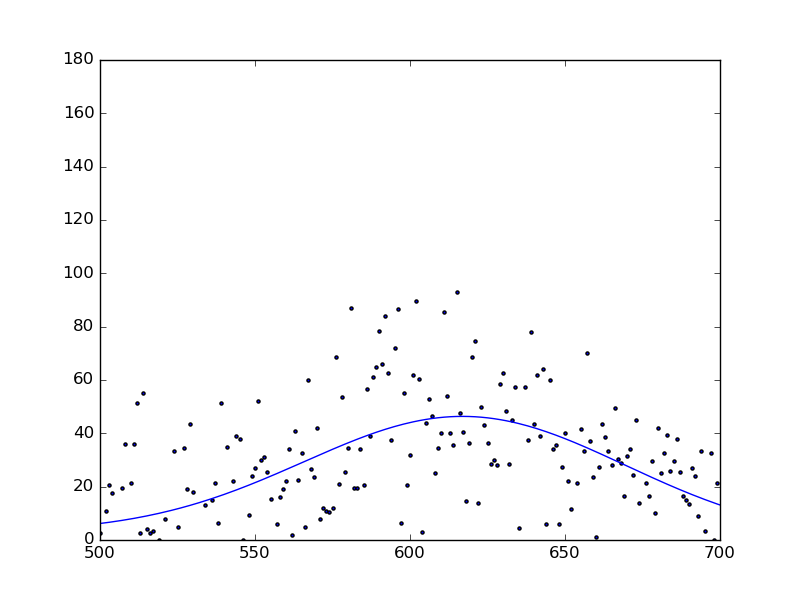
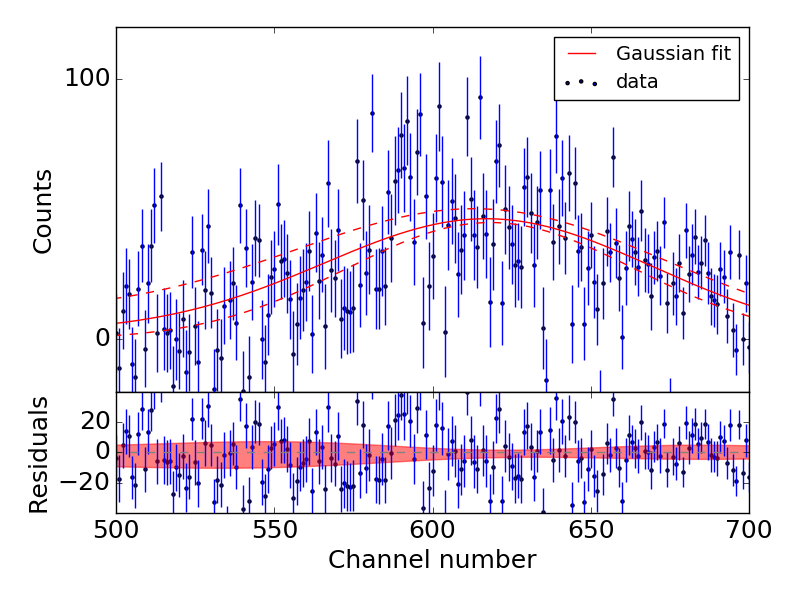
more ploooots

diff --git a/scripts/gaussian_fitter.py b/scripts/gaussian_fitter.py
@@ -49,12 +49,12 @@ def plotter(num, key, guess_mean, guess_width = 2, guess_height=1, plot = True):
 
         # Scatter of the data and gaussian line
         axs[0].scatter(x, y, marker = '.', label = 'data')
-        axs[0].plot(x, total_fit(x, *popt), color = 'orange', label = 'Gaussian fit')
+        axs[0].plot(x, total_fit(x, *popt), color = 'red', label = 'Gaussian fit')
         max = popt+uncertainty
         min = np.clip(popt-uncertainty,1e-15,None)
         max[0], max[2], min[0], min[2] = popt[0], popt[2], popt[0], popt[2]
-        axs[0].plot(x, total_fit(x, *max), color = 'orange',linestyle = '--')
-        axs[0].plot(x, total_fit(x, *min), color = 'orange',linestyle = '--')
+        axs[0].plot(x, total_fit(x, *max), color = 'red',linestyle = '--')
+        axs[0].plot(x, total_fit(x, *min), color = 'red',linestyle = '--')
         axs[0].errorbar(x, y, yerr = uncert, linestyle = "None",capsize=0)
         axs[0].set_ylabel('Counts')
         axs[0].set_yticks([0,100])
@@ -66,7 +66,7 @@ def plotter(num, key, guess_mean, guess_width = 2, guess_height=1, plot = True):
         axs[1].set_ylabel('Residuals') #, position = (0,0))
         plt.xlabel('Channel number')
         axs[1].plot(x,np.zeros(len(x)), color='grey', linestyle = '--')
-        axs[1].fill_between(x, total_fit(x, *popt)-total_fit(x, *max), total_fit(x, *popt)-total_fit(x, *min), color = 'orange', alpha = 0.5)
+        axs[1].fill_between(x, total_fit(x, *popt)-total_fit(x, *max), total_fit(x, *popt)-total_fit(x, *min), color = 'red', alpha = 0.5)
         axs[1].set_yticks([-20,0,20])
         plt.subplots_adjust(wspace=0, hspace=0)
         plt.tight_layout()
@@ -105,7 +105,7 @@ def line_fit(points_y, litterature, angle, plot = True):
         axs[0].scatter(litterature[0], points_y[:,0],marker = '.', label = 'data')
         axs[0].errorbar(litterature[0],points_y[:,0],  yerr = points_y[:,1], linestyle = "None",capsize=0)
         print(points_y[:,1])
-        axs[0].plot(line(points_y[:,0], *popt), points_y[:,0], color = 'orange', label = 'Linear Fit')
+        axs[0].plot(line(points_y[:,0], *popt), points_y[:,0], color = 'red', label = 'Linear Fit')
         axs[0].set_ylabel('Channel Number')
         axs[0].set_yticks([600,1200,1800])
         n = ['Ba-133','Co-57','Cs-137','Na-22']
@@ -119,7 +119,7 @@ def line_fit(points_y, litterature, angle, plot = True):
         axs[1].scatter(litterature[0],points_y[:,0]-reverse_line(litterature[0], *popt),  marker = '.')
         axs[1].errorbar(litterature[0],points_y[:,0]-reverse_line(litterature[0], *popt),  yerr = points_y[:,1], linestyle = "None",capsize=0)
         axs[1].fill_between(linspace, reverse_line(linspace, *popt)-reverse_line(linspace, *max),
-                             reverse_line(linspace, *popt)-reverse_line(linspace, *min), color = 'orange', alpha = 0.5)
+                             reverse_line(linspace, *popt)-reverse_line(linspace, *min), color = 'red', alpha = 0.5)
         axs[1].plot(linspace,np.zeros(len(linspace)), color='grey', linestyle = '--')
         axs[1].set_yticks([-10,0,10])
         axs[1].set_ylabel('Residuals')

diff --git a/scripts/peak_finder.py b/scripts/peak_finder.py
@@ -29,14 +29,44 @@ def peak_finder(sup_path, bins, plot = True):
     unc = np.sqrt(np.diag(res[1]))
     
     if plot: 
-        plt.figure()
-        plt.scatter(x, corr_data, marker = '.', alpha = 1)
-        plt.plot(x, gf.total_fit(x, *popt))
-        plt.ylim(0,180)
-        # plt.ylim(min(data[bins[0]:bins[1]]), max(data[bins[0]:bins[1]]))
+        plt.clf()
+        plt.rcParams.update({'font.size': 18})
+        fig, axs = plt.subplots(2, sharex=True, sharey=False, gridspec_kw = {'height_ratios': [3,1],'wspace':0, 'hspace':0})
+
+        # plt.ylim(0,180)
         plt.xlim(bins[0],bins[1])
-        # plt.show()
+        axs[0].scatter(x, corr_data, marker = '.', label = 'data')
+        axs[0].plot(x, gf.total_fit(x, *popt), color = 'red', label = 'Gaussian fit')
+        max = popt+unc
+        min = np.clip(popt-unc,1e-15,None)
+        max[0], max[2], min[0], min[2] = popt[0], popt[2], popt[0], popt[2]
+        axs[0].plot(x, gf.total_fit(x, *max), color = 'red',linestyle = '--')
+        axs[0].plot(x, gf.total_fit(x, *min), color = 'red',linestyle = '--')
+        axs[0].errorbar(x, corr_data, yerr = np.sqrt(data + 30/12*background), 
+                        linestyle = "None",capsize=0)
+        axs[0].set_ylabel('Counts')
+        axs[0].set_ylim(-20,120)
+        axs[0].set_yticks([0,100])
+        axs[0].legend(fontsize=14)
+
+        #residual plot
+        axs[1].scatter(x, corr_data-gf.total_fit(x, *popt), marker = '.')
+        axs[1].errorbar(x, corr_data-gf.total_fit(x, *popt), yerr = np.sqrt(data + 30/12*background), linestyle = "None",capsize=0)
+        axs[1].set_ylabel('Residuals') #, position = (0,0))
+        plt.xlabel('Channel number')
+        axs[1].plot(x,np.zeros(len(x)), color='grey', linestyle = '--')
+        axs[1].fill_between(x, gf.total_fit(x, *popt)-gf.total_fit(x, *max),
+                             gf.total_fit(x, *popt)-gf.total_fit(x, *min), color = 'red', alpha = 0.5)
+        axs[1].set_yticks([-20,0,20])
+        axs[1].set_ylim(-40,40)
+        plt.subplots_adjust(wspace=0, hspace=0)
+        plt.tight_layout()
+        plt.xlim(bins[0],bins[1])
+
+
         plt.savefig(path.join(sup_path + 'gaussian.png'))
+        # plt.show()
+        plt.close()
     return popt, unc
     
     
